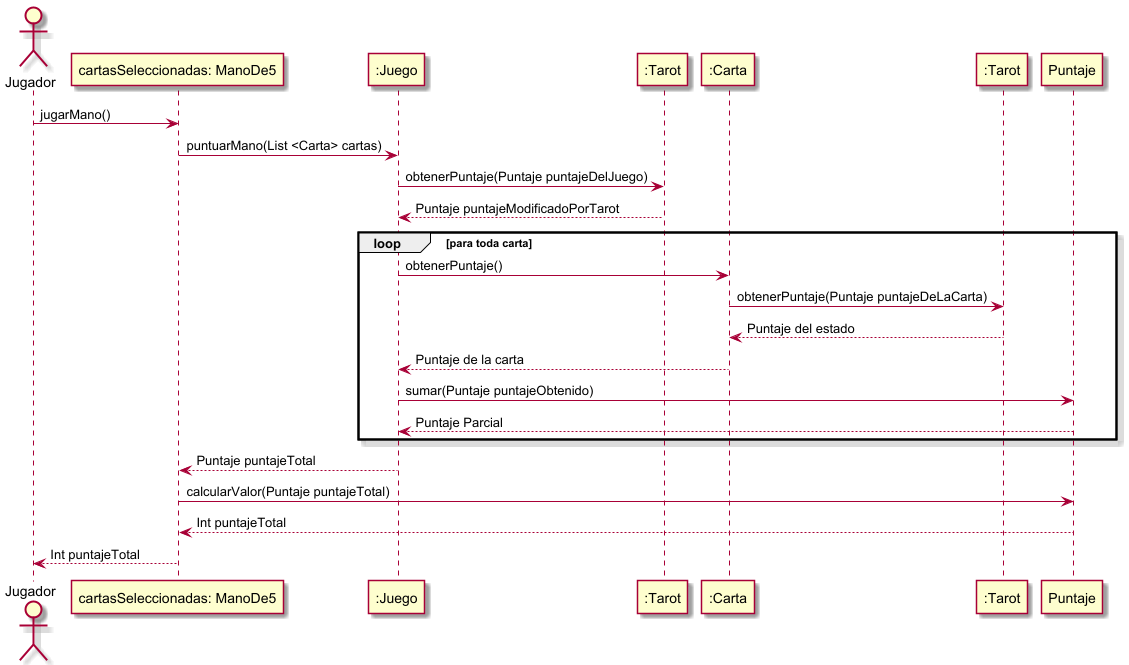
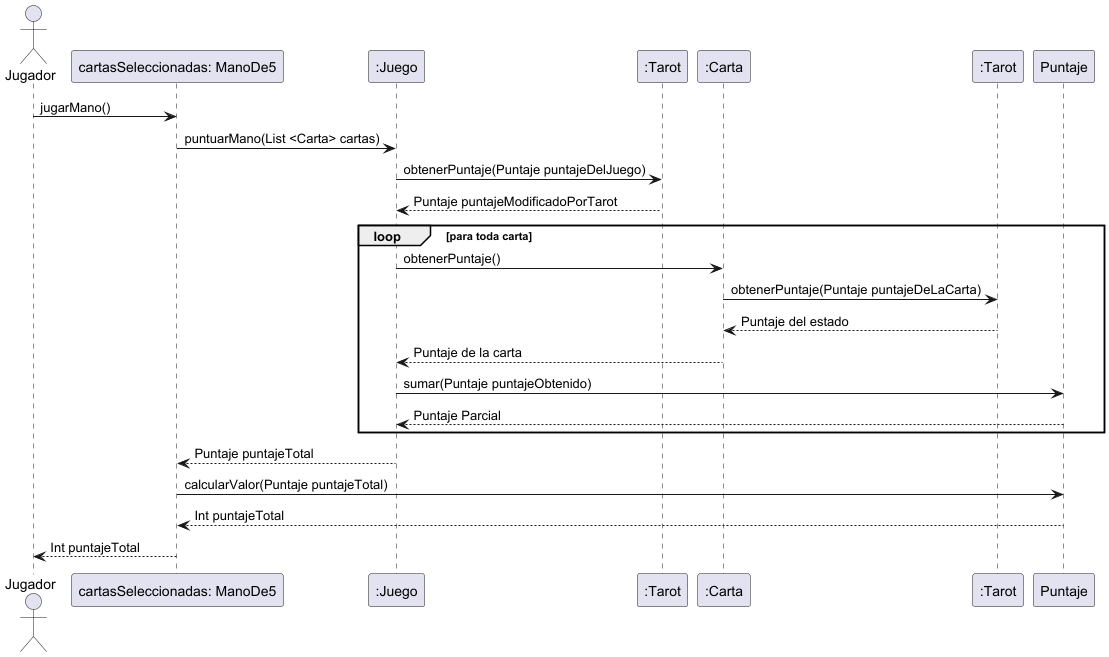
Agregamos diagrama de paquetes
Agregamos el diagrama de paquete y le sacamos la skinn rosa al de secuencia

diff --git a/src/main/test/edu/fiuba/algo3/entrega_1/casosDeUsoEntrega1Test.java b/src/main/test/edu/fiuba/algo3/entrega_1/casosDeUsoEntrega1Test.java
@@ -1,9 +1,12 @@
 package edu.fiuba.algo3.entrega_1;
 
-import edu.fiuba.algo3.modelo.carta.*;
 import edu.fiuba.algo3.modelo.Jugador;
-import edu.fiuba.algo3.modelo.mano.Mano;
-import edu.fiuba.algo3.modelo.mazo.Mazo;
+import edu.fiuba.algo3.modelo.naipes.Mano;
+import edu.fiuba.algo3.modelo.naipes.Mazo;
+import edu.fiuba.algo3.modelo.naipes.carta.Carta;
+import edu.fiuba.algo3.modelo.naipes.carta.Corazon;
+import edu.fiuba.algo3.modelo.naipes.carta.Diamante;
+import edu.fiuba.algo3.modelo.naipes.carta.Trebol;
 import edu.fiuba.algo3.modelo.puntaje.Puntaje;
 import edu.fiuba.algo3.modelo.tarot.CambiadorDeMultiplicador;
 import edu.fiuba.algo3.modelo.tarot.CambiadorDePuntos;

diff --git a/src/main/test/edu/fiuba/algo3/modeloTest/JugadorTest.java b/src/main/test/edu/fiuba/algo3/modeloTest/JugadorTest.java
@@ -1,9 +1,11 @@
 package edu.fiuba.algo3.modeloTest;
 
 import edu.fiuba.algo3.modelo.Jugador;
-import edu.fiuba.algo3.modelo.carta.*;
-import edu.fiuba.algo3.modelo.mano.*;
-import edu.fiuba.algo3.modelo.manoDe5.MaximoCartasSeleccionadasException;
+import edu.fiuba.algo3.modelo.naipes.CartaNoEnManoException;
+import edu.fiuba.algo3.modelo.naipes.Mano;
+import edu.fiuba.algo3.modelo.naipes.MaximoCartasSeleccionadasException;
+import edu.fiuba.algo3.modelo.naipes.carta.Carta;
+import edu.fiuba.algo3.modelo.naipes.carta.Trebol;
 import edu.fiuba.algo3.modelo.puntaje.Puntaje;
 import org.junit.jupiter.api.Test;
 import static org.junit.jupiter.api.Assertions.*;

diff --git a/src/main/test/edu/fiuba/algo3/modeloTest/ManoDe5Test.java b/src/main/test/edu/fiuba/algo3/modeloTest/ManoDe5Test.java
@@ -1,8 +1,9 @@
 package edu.fiuba.algo3.modeloTest;
 
-import edu.fiuba.algo3.modelo.manoDe5.*;
-import edu.fiuba.algo3.modelo.carta.*;
-import edu.fiuba.algo3.modelo.mano.*;
+import edu.fiuba.algo3.modelo.naipes.CartaNoEnManoException;
+import edu.fiuba.algo3.modelo.naipes.ManoDe5;
+import edu.fiuba.algo3.modelo.naipes.MaximoCartasSeleccionadasException;
+import edu.fiuba.algo3.modelo.naipes.carta.*;
 import edu.fiuba.algo3.modelo.puntaje.Puntaje;
 import org.junit.jupiter.api.Test;
 import static org.junit.jupiter.api.Assertions.*;

diff --git a/src/main/test/edu/fiuba/algo3/modeloTest/juegoTest/ColorTest.java b/src/main/test/edu/fiuba/algo3/modeloTest/juegoTest/ColorTest.java
@@ -1,9 +1,11 @@
 package edu.fiuba.algo3.modeloTest.juegoTest;
 
-import edu.fiuba.algo3.modelo.carta.*;
 import edu.fiuba.algo3.modelo.juego.*;
+import edu.fiuba.algo3.modelo.naipes.carta.Corazon;
+import edu.fiuba.algo3.modelo.naipes.carta.Pica;
+import edu.fiuba.algo3.modelo.naipes.carta.Trebol;
 import org.junit.jupiter.api.Test;
-import edu.fiuba.algo3.modelo.carta.Carta;
+import edu.fiuba.algo3.modelo.naipes.carta.Carta;
 import java.util.ArrayList;
 import java.util.List;
 import static org.junit.jupiter.api.Assertions.*;

diff --git a/src/main/test/edu/fiuba/algo3/modeloTest/juegoTest/EscaleraDeColorTest.java b/src/main/test/edu/fiuba/algo3/modeloTest/juegoTest/EscaleraDeColorTest.java
@@ -1,9 +1,11 @@
 package edu.fiuba.algo3.modeloTest.juegoTest;
 
-import edu.fiuba.algo3.modelo.carta.*;
 import edu.fiuba.algo3.modelo.juego.*;
+import edu.fiuba.algo3.modelo.naipes.carta.Corazon;
+import edu.fiuba.algo3.modelo.naipes.carta.Pica;
+import edu.fiuba.algo3.modelo.naipes.carta.Trebol;
 import org.junit.jupiter.api.Test;
-import edu.fiuba.algo3.modelo.carta.Carta;
+import edu.fiuba.algo3.modelo.naipes.carta.Carta;
 import java.util.ArrayList;
 import java.util.List;
 import static org.junit.jupiter.api.Assertions.*;

diff --git a/src/main/test/edu/fiuba/algo3/modeloTest/juegoTest/EscaleraRealTest.java b/src/main/test/edu/fiuba/algo3/modeloTest/juegoTest/EscaleraRealTest.java
@@ -1,9 +1,11 @@
 package edu.fiuba.algo3.modeloTest.juegoTest;
 
-import edu.fiuba.algo3.modelo.carta.*;
 import edu.fiuba.algo3.modelo.juego.*;
+import edu.fiuba.algo3.modelo.naipes.carta.Corazon;
+import edu.fiuba.algo3.modelo.naipes.carta.Pica;
+import edu.fiuba.algo3.modelo.naipes.carta.Trebol;
 import org.junit.jupiter.api.Test;
-import edu.fiuba.algo3.modelo.carta.Carta;
+import edu.fiuba.algo3.modelo.naipes.carta.Carta;
 import java.util.ArrayList;
 import java.util.List;
 import static org.junit.jupiter.api.Assertions.*;

diff --git a/src/main/test/edu/fiuba/algo3/modeloTest/juegoTest/EscaleraTest.java b/src/main/test/edu/fiuba/algo3/modeloTest/juegoTest/EscaleraTest.java
@@ -1,9 +1,11 @@
 package edu.fiuba.algo3.modeloTest.juegoTest;
 
-import edu.fiuba.algo3.modelo.carta.*;
 import edu.fiuba.algo3.modelo.juego.*;
+import edu.fiuba.algo3.modelo.naipes.carta.Corazon;
+import edu.fiuba.algo3.modelo.naipes.carta.Pica;
+import edu.fiuba.algo3.modelo.naipes.carta.Trebol;
 import org.junit.jupiter.api.Test;
-import edu.fiuba.algo3.modelo.carta.Carta;
+import edu.fiuba.algo3.modelo.naipes.carta.Carta;
 import java.util.ArrayList;
 import java.util.List;
 import static org.junit.jupiter.api.Assertions.*;

diff --git a/src/main/test/edu/fiuba/algo3/modeloTest/ManoTest.java b/src/main/test/edu/fiuba/algo3/modeloTest/ManoTest.java
@@ -1,7 +1,10 @@
 package edu.fiuba.algo3.modeloTest;
 
-import edu.fiuba.algo3.modelo.mano.*;
-import edu.fiuba.algo3.modelo.carta.*;
+import edu.fiuba.algo3.modelo.naipes.CartaNoEnManoException;
+import edu.fiuba.algo3.modelo.naipes.Mano;
+import edu.fiuba.algo3.modelo.naipes.ManoLlenaException;
+import edu.fiuba.algo3.modelo.naipes.carta.Carta;
+import edu.fiuba.algo3.modelo.naipes.carta.Trebol;
 import org.junit.jupiter.api.Test;
 import static org.junit.jupiter.api.Assertions.*;
 

diff --git a/src/main/test/edu/fiuba/algo3/modeloTest/juegoTest/CartaAltaTest.java b/src/main/test/edu/fiuba/algo3/modeloTest/juegoTest/CartaAltaTest.java
@@ -1,9 +1,9 @@
 package edu.fiuba.algo3.modeloTest.juegoTest;
 
-import edu.fiuba.algo3.modelo.carta.*;
 import edu.fiuba.algo3.modelo.juego.*;
+import edu.fiuba.algo3.modelo.naipes.carta.Corazon;
 import org.junit.jupiter.api.Test;
-import edu.fiuba.algo3.modelo.carta.Carta;
+import edu.fiuba.algo3.modelo.naipes.carta.Carta;
 import java.util.ArrayList;
 import java.util.List;
 import static org.junit.jupiter.api.Assertions.*;

diff --git a/src/main/test/edu/fiuba/algo3/modeloTest/MazoTest.java b/src/main/test/edu/fiuba/algo3/modeloTest/MazoTest.java
@@ -1,7 +1,8 @@
 package edu.fiuba.algo3.modeloTest;
 
-import edu.fiuba.algo3.modelo.mano.*;
-import edu.fiuba.algo3.modelo.mazo.*;
+import edu.fiuba.algo3.modelo.naipes.CartasInsuficientesException;
+import edu.fiuba.algo3.modelo.naipes.Mano;
+import edu.fiuba.algo3.modelo.naipes.Mazo;
 import org.junit.jupiter.api.Test;
 import static org.junit.jupiter.api.Assertions.*;
 

diff --git a/src/main/test/edu/fiuba/algo3/modeloTest/juegoTest/DobleParTest.java b/src/main/test/edu/fiuba/algo3/modeloTest/juegoTest/DobleParTest.java
@@ -1,9 +1,9 @@
 package edu.fiuba.algo3.modeloTest.juegoTest;
 
-import edu.fiuba.algo3.modelo.carta.*;
 import edu.fiuba.algo3.modelo.juego.*;
+import edu.fiuba.algo3.modelo.naipes.carta.*;
 import org.junit.jupiter.api.Test;
-import edu.fiuba.algo3.modelo.carta.Carta;
+
 import java.util.ArrayList;
 import java.util.List;
 import static org.junit.jupiter.api.Assertions.*;

diff --git a/src/main/test/edu/fiuba/algo3/modeloTest/juegoTest/FullHouseTest.java b/src/main/test/edu/fiuba/algo3/modeloTest/juegoTest/FullHouseTest.java
@@ -1,9 +1,9 @@
 package edu.fiuba.algo3.modeloTest.juegoTest;
 
-import edu.fiuba.algo3.modelo.carta.*;
 import edu.fiuba.algo3.modelo.juego.*;
+import edu.fiuba.algo3.modelo.naipes.carta.*;
 import org.junit.jupiter.api.Test;
-import edu.fiuba.algo3.modelo.carta.Carta;
+
 import java.util.ArrayList;
 import java.util.List;
 import static org.junit.jupiter.api.Assertions.*;
